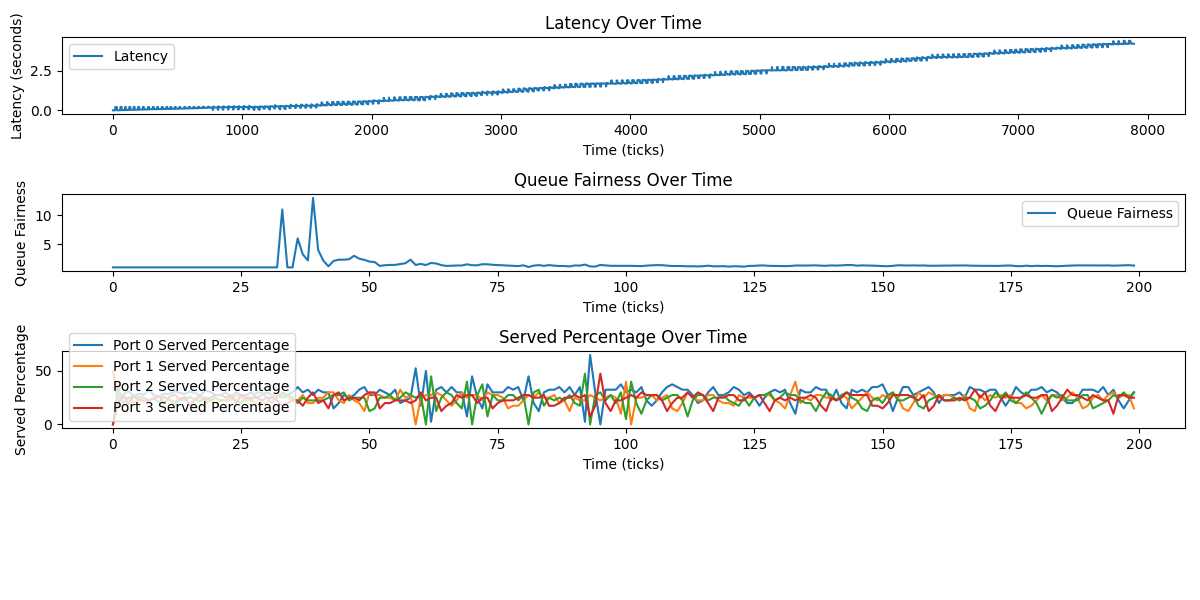
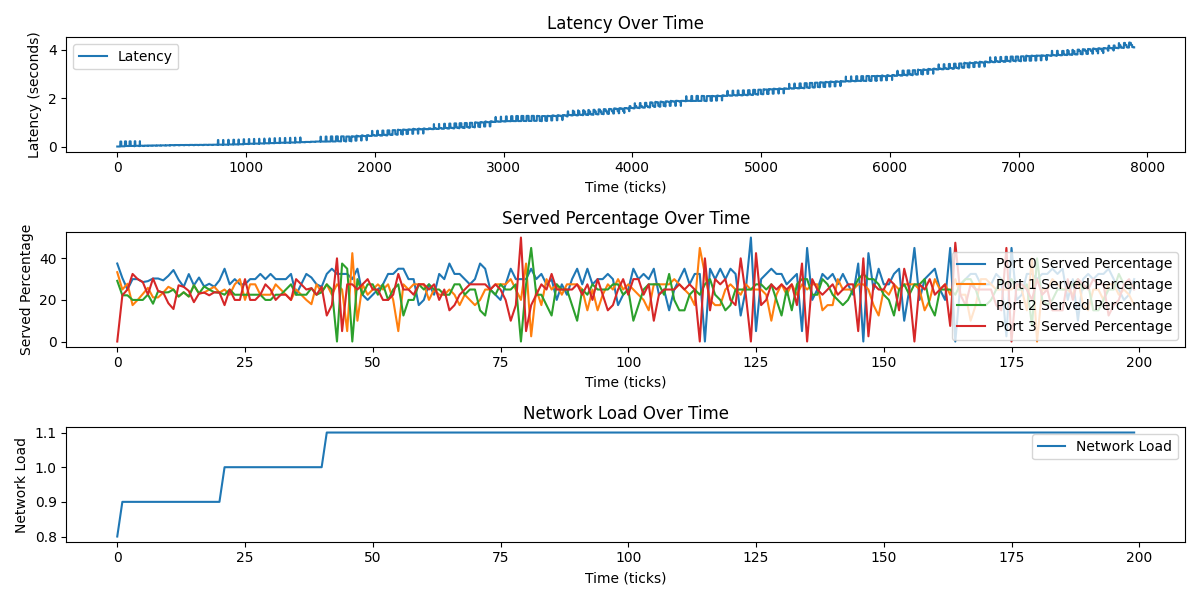
finished

diff --git a/scheduler.py b/scheduler.py
@@ -17,7 +17,7 @@ class BaseScheduler:
         self.latency_data = []  # List to store latency data
         self.queue_fairness_data = []  # List to store queue fairness data
         self.served_percentage_data = []  # List to store served percentage data
-
+        self.network_load_list = []
         self.distribution_mean = distribution_mean
         self.packet_length = packet_length
         for i in range(num_of_input_ports):
@@ -98,36 +98,35 @@ class BaseScheduler:
                 served_percentage[packet.incoming_port] += 1 / total_served * 100
             
             self.served_percentage_data.append(served_percentage)
-            
+            self.network_load_list.append(self.network_load)
             if time_tick %20 == 0:
                 if self.network_load < 1.1:
                     self.network_load += 0.1
             time_tick += 1
             time.sleep(SLEEP_MS/1000.0)
-
     def stop_generators(self):
         for generator in self.generators:
             generator.stop()
     def plot_data(self):
         # Plot latency data
         plt.figure(figsize=(12, 6))
-        plt.subplot(4 ,1, 1)
+        plt.subplot(3 ,1, 1)
         plt.plot(self.latency_data, label='Latency')
         plt.title('Latency Over Time')
         plt.xlabel('Time (ticks)')
         plt.ylabel('Latency (seconds)')
         plt.legend()
 
-        # Plot queue fairness data
-        plt.subplot(4, 1, 2)
-        plt.plot(self.queue_fairness_data, label='Queue Fairness')
-        plt.title('Queue Fairness Over Time')
-        plt.xlabel('Time (ticks)')
-        plt.ylabel('Queue Fairness')
-        plt.legend()
+        # # Plot queue fairness data
+        # plt.subplot(4, 1, 2)
+        # plt.plot(self.queue_fairness_data, label='Queue Fairness')
+        # plt.title('Queue Fairness Over Time')
+        # plt.xlabel('Time (ticks)')
+        # plt.ylabel('Queue Fairness')
+        # plt.legend()
 
         # Plot served percentage data
-        plt.subplot(4, 1, 3)
+        plt.subplot(3, 1, 2)
         for i in range(self.num_of_input_ports):
             plt.plot([percentage[i] for percentage in self.served_percentage_data], label=f'Port {i} Served Percentage')
 
@@ -136,6 +135,13 @@ class BaseScheduler:
         plt.ylabel('Served Percentage')
         plt.legend()
         
+        #Plot network load
+        plt.subplot(3,1,3)
+        plt.plot(self.network_load_list,label='Network Load')
+        plt.title('Network Load Over Time')
+        plt.xlabel('Time (ticks)')
+        plt.ylabel('Network Load')
+        plt.legend()
         
         plt.tight_layout()
         plt.savefig(f"{self.name}plot.png")

diff --git a/dr_pifo_scheduler.py b/dr_pifo_scheduler.py
@@ -1,0 +1,47 @@
+from scheduler import BaseScheduler
+import time
+MIN_BYTE_SEND = 10
+
+class DRPIFOScheduler(BaseScheduler):
+    def __init__(self, num_of_input_ports=4, max_service_quality=10):
+        super().__init__("DR_PIFO", num_of_input_ports)
+        self.pifo = []  # Priority-based Queue (PIFO) for holding packets based on their rank
+        self.service_qualities = [max_service_quality] * num_of_input_ports  # Initial service quality for each input port
+
+    def serve_packets(self):
+        served_packets = []
+        # Serve packets from the head of the output queue
+        with self.lock:
+            served_bytes = 0
+            while served_bytes < self.num_of_input_ports * self.distribution_mean * self.packet_length:
+                if self.pifo:
+                    packet = self.pifo.pop(0) 
+                    serving_amount = min(MIN_BYTE_SEND, packet.size - packet.served_size)
+                    packet.serve(serving_amount)
+                    served_bytes += serving_amount
+
+                    if not packet.is_done():
+                        self.pifo.insert(0, packet)
+                    else:
+                        packet.serve_time = int(time.time() * 1000)
+                        served_packets.append(packet)
+
+        return served_packets
+
+    def schedule(self):
+        # Iterate over input queues and re-rank packets based on service quality
+        for i in range(self.num_of_input_ports):
+            while not self.input_queues[i].empty():
+                packet = self.input_queues[i].get() 
+
+                packet.rank = max(0, packet.rank - self.service_qualities[i])
+
+                
+                self.enqueue_to_pifo(packet)
+
+    def enqueue_to_pifo(self, packet):
+        
+        index = 0
+        while index < len(self.pifo) and packet.rank < self.pifo[index].rank:
+            index += 1
+        self.pifo.insert(index, packet)

diff --git a/pifo_scheduler.py b/pifo_scheduler.py
@@ -41,7 +41,13 @@ class PIFOScheduler(BaseScheduler):
                 self.output_queue.put(selected_packet)  # Enqueue the packet to the output queue
                 self.tokens[selected_queue] += 1  # Decrease tokens for the selected port
                 scheduled_packet_count += 1
-    
+                
+    def enqueue_to_pifo(self, packet):
+        # Enqueue the packet to the PIFO based on its rank
+        index = 0
+        while index < len(self.pifo) and packet.rank < self.pifo[index].rank:
+            index += 1
+        self.pifo.insert(index, packet)
     def token_based_selection(self):
         # Perform token-based selection by selecting the input port with the most tokens
         selected_queue = None

diff --git a/packet.py b/packet.py
@@ -1,13 +1,15 @@
 # packet.py
 
 class Packet:
-    def __init__(self, incoming_port, size, arrival_time, id):
+    def __init__(self, incoming_port, size, arrival_time, id,metadata=None,rank=0):
         self.incoming_port = incoming_port
         self.size = size
         self.served_size = 0
         self.arrival_time = arrival_time
         self.id = id
         self.serve_time = 0
+        self.rank = rank
+        self.metadata = metadata
     def serve(self,amount):
         if self.served_size + amount > self.size:
             raise ValueError("Cannot serve this much amount")

diff --git a/main.py b/main.py
@@ -1,8 +1,10 @@
 from fifo_scheduler import FIFOScheduler
 from pifo_scheduler import PIFOScheduler
+from drr_scheduler import DRRScheduler
+from dr_pifo_scheduler import DRPIFOScheduler
 NUM_PORTS = 4
 
-scheduler = FIFOScheduler(NUM_PORTS)
+scheduler = DRPIFOScheduler(NUM_PORTS)
 #scheduler = PIFOScheduler(NUM_PORTS)
 scheduler.start_simulation()
 scheduler.plot_data()

diff --git a/generator.py b/generator.py
@@ -42,3 +42,6 @@ class PacketGenerator:
     def stop(self):
         self.stop_event.set()
         self.thread.join()
+        
+        
+        
